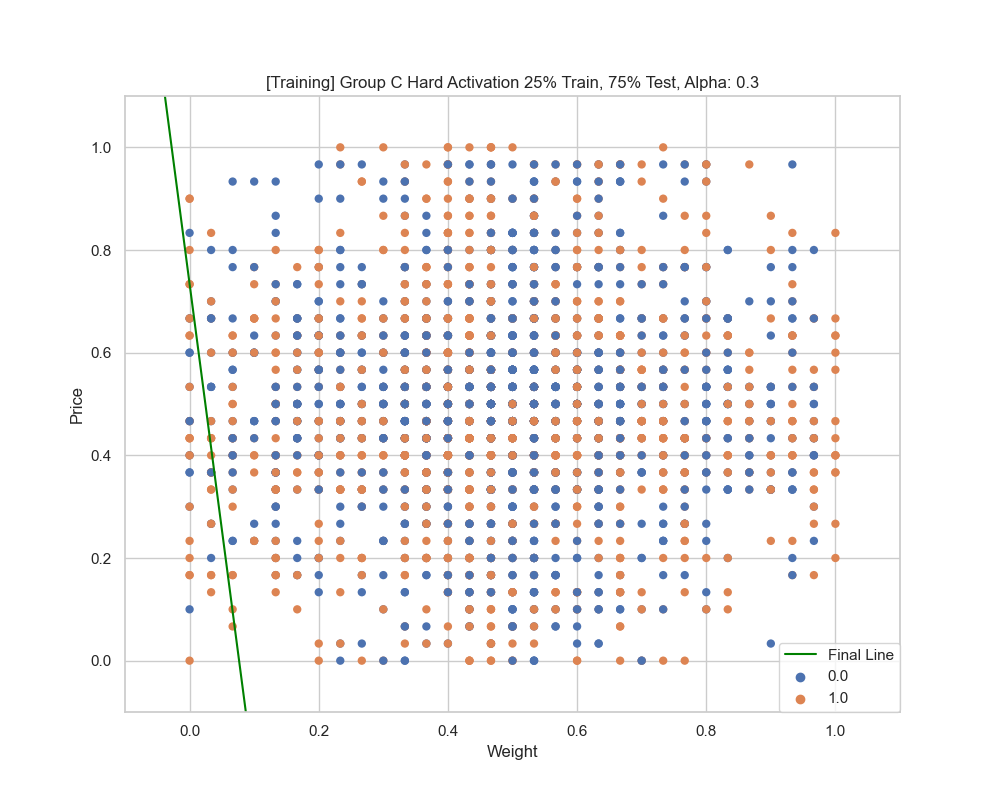
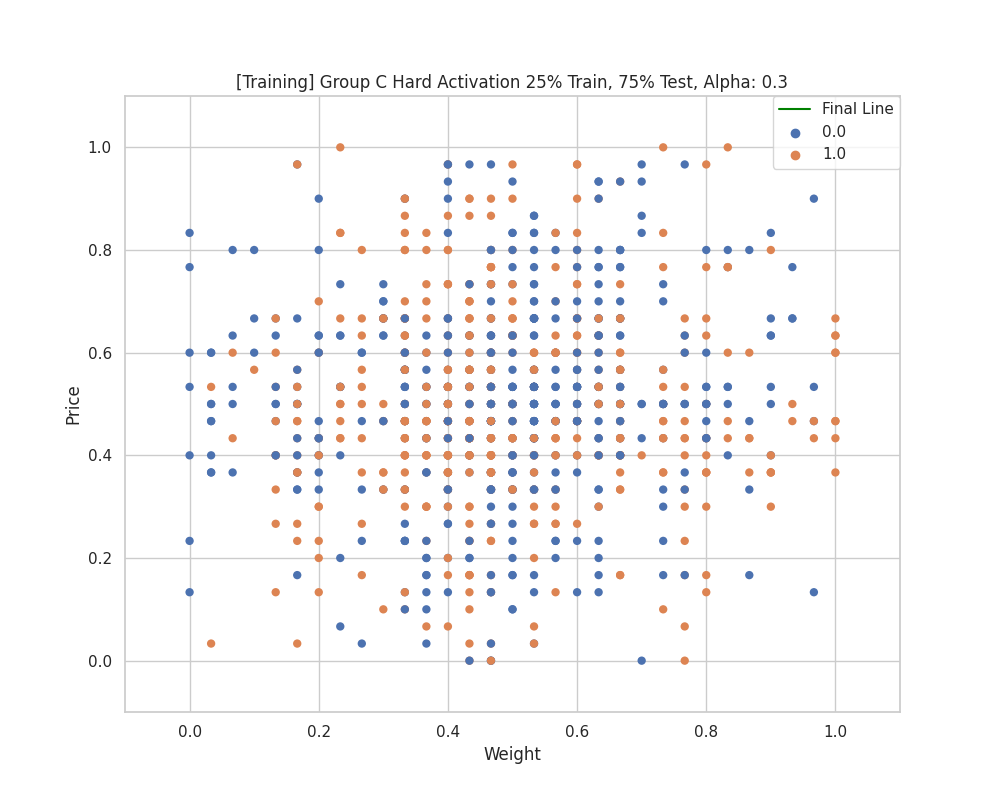
add group c hard 25

diff --git a/assignment2.py b/assignment2.py
@@ -359,31 +359,31 @@ def confusion_matrix(title, predicted, actual):
 # confusion_matrix(
 #     "Group A Hard Activation 25% Train, 75% Test, Alpha: 0.3", pred, testOut)
 
-groupb_hard_75, groupb_hard_75_train, groupb_hard_75_test, groupb_hard_75_out, train, test = normalize_and_train_hard(
-    "Group B", b_25, b_75, 0.3, epsilon_b, max_iterations, .75)
-groupb_hard_25, groupb_hard_25_train, groupb_hard_25_test, groupb_hard_25_out, train, test = normalize_and_train_hard(
-    "Group B", b_75, b_25, 0.3, epsilon_b, max_iterations, .25)
-pred, testOut = test_hard(
-    groupb_hard_75, groupb_hard_75_test, groupb_hard_75_out)
-graph_results("[Training] Group B Hard Activation 75% Train, 25% Test, Alpha: 0.3",
-              train, groupb_hard_75)
-graph_results("[Testing] Group B Hard Activation 75% Train, 25% Test, Alpha: 0.3",
-              test, groupb_hard_75)
-confusion_matrix(
-    "Group B Hard Activation 75% Train, 25% Test, Alpha: 0.3", pred, testOut)
-pred, testOut = test_hard(
-    groupb_hard_25, groupb_hard_25_test, groupb_hard_25_out)
-graph_results("[Training] Group B Hard Activation 25% Train, 75% Test, Alpha: 0.3",
-              train, groupb_hard_25)
-graph_results("[Testing] Group B Hard Activation 25% Train, 75% Test, Alpha: 0.3",
-              test, groupb_hard_25)
-confusion_matrix(
-    "Group B Hard Activation 25% Train, 75% Test, Alpha: 0.3", pred, testOut)
+# groupb_hard_75, groupb_hard_75_train, groupb_hard_75_test, groupb_hard_75_out, train, test = normalize_and_train_hard(
+#     "Group B", b_25, b_75, 0.3, epsilon_b, max_iterations, .75)
+# groupb_hard_25, groupb_hard_25_train, groupb_hard_25_test, groupb_hard_25_out, train, test = normalize_and_train_hard(
+#     "Group B", b_75, b_25, 0.3, epsilon_b, max_iterations, .25)
+# pred, testOut = test_hard(
+#     groupb_hard_75, groupb_hard_75_test, groupb_hard_75_out)
+# graph_results("[Training] Group B Hard Activation 75% Train, 25% Test, Alpha: 0.3",
+#               train, groupb_hard_75)
+# graph_results("[Testing] Group B Hard Activation 75% Train, 25% Test, Alpha: 0.3",
+#               test, groupb_hard_75)
+# confusion_matrix(
+#     "Group B Hard Activation 75% Train, 25% Test, Alpha: 0.3", pred, testOut)
+# pred, testOut = test_hard(
+#     groupb_hard_25, groupb_hard_25_test, groupb_hard_25_out)
+# graph_results("[Training] Group B Hard Activation 25% Train, 75% Test, Alpha: 0.3",
+#               train, groupb_hard_25)
+# graph_results("[Testing] Group B Hard Activation 25% Train, 75% Test, Alpha: 0.3",
+#               test, groupb_hard_25)
+# confusion_matrix(
+#     "Group B Hard Activation 25% Train, 75% Test, Alpha: 0.3", pred, testOut)
 
 # groupc_hard_75, groupc_hard_75_train, groupc_hard_75_test, groupc_hard_75_out, train, test = normalize_and_train_hard(
 #     "GroupC", c_25, c_75, 0.3, epsilon_c, max_iterations, .25)
-# groupc_hard_25, groupc_hard_25_train, groupc_hard_25_test, groupc_hard_25_out, train, test = normalize_and_train_hard(
-#     "GroupC", c_25, c_75, 0.3, epsilon_c, max_iterations, .75)
+groupc_hard_25, groupc_hard_25_train, groupc_hard_25_test, groupc_hard_25_out, train, test = normalize_and_train_hard(
+    "GroupC", c_75, c_25, 0.3, epsilon_c, max_iterations, .75)
 # pred, testOut = test_hard(
 #     groupc_hard_75, groupc_hard_75_test, groupc_hard_75_out)
 # graph_results("[Training] Group C Hard Activation 75% Train, 25% Test, Alpha: 0.3",
@@ -392,14 +392,14 @@ confusion_matrix(
 #               test, groupc_hard_75)
 # confusion_matrix(
 #     "Group C Hard Activation 75% Train, 25% Test, Alpha: 0.3", pred, testOut)
-# pred, testOut = test_hard(
-#     groupc_hard_25, groupc_hard_25_test, groupc_hard_25_out)
-# graph_results("[Training] Group C Hard Activation 25% Train, 75% Test, Alpha: 0.3",
-#               train, groupc_hard_25)
-# graph_results("[Testing] Group C Hard Activation 25% Train, 75% Test, Alpha: 0.3",
-#               test, groupc_hard_25)
-# confusion_matrix(
-#     "Group C Hard Activation 25% Train, 75% Test, Alpha: 0.3", pred, testOut)
+pred, testOut = test_hard(
+    groupc_hard_25, groupc_hard_25_test, groupc_hard_25_out)
+graph_results("[Training] Group C Hard Activation 25% Train, 75% Test, Alpha: 0.3",
+              train, groupc_hard_25)
+graph_results("[Testing] Group C Hard Activation 25% Train, 75% Test, Alpha: 0.3",
+              test, groupc_hard_25)
+confusion_matrix(
+    "Group C Hard Activation 25% Train, 75% Test, Alpha: 0.3", pred, testOut)
 
 # groupa_soft_75, groupa_soft_75_train, groupa_soft_75_test, groupa_soft_75_out, gainA_75, train, test = normalize_and_train_soft(
 #     "GroupA", df_a, 0.3, epsilon_a, max_iterations, .2, .25)
@@ -443,26 +443,26 @@ confusion_matrix(
 # confusion_matrix(
 #     "Group A Soft Activation 25% Train, 75% Test, Alpha: 0.3, Gain: 0.2", pred, testOut)
 
-groupb_soft_75, groupb_soft_75_train, groupb_soft_75_test, groupb_soft_75_out, gainB_75, train, test = normalize_and_train_soft(
-    "GroupB", b_25, b_75, 0.3, epsilon_b, max_iterations, .2, .25)
-groupb_soft_25, groupb_soft_25_train, groupb_soft_25_test, groupb_soft_25_out, gainB_25, train, test = normalize_and_train_soft(
-    "GroupB", b_75, b_25, 0.3, epsilon_b, max_iterations, .2, .75)
-pred, testOut = test_soft(
-    groupb_soft_75, groupb_soft_75_test, groupb_soft_75_out, gainB_75)
-graph_results("[Training] Group B Soft Activation 75% Train, 25% Test, Alpha: 0.3, Gain: 0.2",
-              train, groupb_soft_75)
-graph_results("[Testing] Group B Soft Activation 75% Train, 25% Test, Alpha: 0.3, Gain: 0.2",
-              test, groupb_soft_75)
-confusion_matrix(
-    "Group B Soft Activation 75% Train, 25% Test, Alpha: 0.3, Gain: 0.2", pred, testOut)
-pred, testOut = test_soft(
-    groupb_soft_25, groupb_soft_25_test, groupb_soft_25_out, gainB_25)
-graph_results("[Training] Group B Soft Activation 25% Train, 75% Test, Alpha: 0.3, Gain: 0.2",
-              train, groupb_soft_25)
-graph_results("[Testing] Group B Soft Activation 25% Train, 75% Test, Alpha: 0.3, Gain: 0.2",
-              test, groupb_soft_25)
-confusion_matrix(
-    "Group B Soft Activation 25% Train, 75% Test, Alpha: 0.3, Gain: 0.2", pred, testOut)
+# groupb_soft_75, groupb_soft_75_train, groupb_soft_75_test, groupb_soft_75_out, gainB_75, train, test = normalize_and_train_soft(
+#     "GroupB", b_25, b_75, 0.3, epsilon_b, max_iterations, .2, .25)
+# groupb_soft_25, groupb_soft_25_train, groupb_soft_25_test, groupb_soft_25_out, gainB_25, train, test = normalize_and_train_soft(
+#     "GroupB", b_75, b_25, 0.3, epsilon_b, max_iterations, .2, .75)
+# pred, testOut = test_soft(
+#     groupb_soft_75, groupb_soft_75_test, groupb_soft_75_out, gainB_75)
+# graph_results("[Training] Group B Soft Activation 75% Train, 25% Test, Alpha: 0.3, Gain: 0.2",
+#               train, groupb_soft_75)
+# graph_results("[Testing] Group B Soft Activation 75% Train, 25% Test, Alpha: 0.3, Gain: 0.2",
+#               test, groupb_soft_75)
+# confusion_matrix(
+#     "Group B Soft Activation 75% Train, 25% Test, Alpha: 0.3, Gain: 0.2", pred, testOut)
+# pred, testOut = test_soft(
+#     groupb_soft_25, groupb_soft_25_test, groupb_soft_25_out, gainB_25)
+# graph_results("[Training] Group B Soft Activation 25% Train, 75% Test, Alpha: 0.3, Gain: 0.2",
+#               train, groupb_soft_25)
+# graph_results("[Testing] Group B Soft Activation 25% Train, 75% Test, Alpha: 0.3, Gain: 0.2",
+#               test, groupb_soft_25)
+# confusion_matrix(
+#     "Group B Soft Activation 25% Train, 75% Test, Alpha: 0.3, Gain: 0.2", pred, testOut)
 
 # groupc_soft_75, groupc_soft_75_train, groupc_soft_75_test, groupc_soft_75_out, gainC_75, train, test = normalize_and_train_soft(
 #     "GroupC", c_25, c_75, 0.1, epsilon_c, max_iterations, .1, .25)
@@ -590,26 +590,26 @@ confusion_matrix(
 # confusion_matrix(
 #     "Alt Data A Soft Activation 25% Train, 75% Test, Alpha: 0.3, Gain: 0.2", pred, testOut)
 
-altb_soft_75, altb_soft_75_train, altb_soft_75_test, altb_soft_75_out, gainB_75, train, test = normalize_and_train_soft(
-    "AltB", b_alt_25, b_alt_75, 0.3, epsilon_b, max_iterations, .2, .25)
-altb_soft_25, altb_soft_25_train, altb_soft_25_test, altb_soft_25_out, gainB_25, train, test = normalize_and_train_soft(
-    "AltB", b_alt_75, b_alt_25, 0.3, epsilon_b, max_iterations, .2, .75)
-pred, testOut = test_soft(
-    altb_soft_75, altb_soft_75_test, altb_soft_75_out, gainB_75)
-graph_results("[Training] Alt Data B Soft Activation 75% Train, 25% Test, Alpha: 0.3, Gain: 0.2",
-              train, altb_soft_75)
-graph_results("[Testing] Alt Data B Soft Activation 75% Train, 25% Test, Alpha: 0.3, Gain: 0.2",
-              test, altb_soft_75)
-confusion_matrix(
-    "Alt Data B Soft Activation 75% Train, 25% Test, Alpha: 0.3, Gain: 0.2", pred, testOut)
-pred, testOut = test_soft(
-    altb_soft_25, altb_soft_25_test, altb_soft_25_out, gainB_25)
-graph_results("[Training] Alt Data B Soft Activation 25% Train, 75% Test, Alpha: 0.3, Gain: 0.2",
-              train, altb_soft_25)
-graph_results("[Testing] Alt Data B Soft Activation 25% Train, 75% Test, Alpha: 0.3, Gain: 0.2",
-              test, altb_soft_25)
-confusion_matrix(
-    "Alt Data B Soft Activation 25% Train, 75% Test, Alpha: 0.3, Gain: 0.2", pred, testOut)
+# altb_soft_75, altb_soft_75_train, altb_soft_75_test, altb_soft_75_out, gainB_75, train, test = normalize_and_train_soft(
+#     "AltB", b_alt_25, b_alt_75, 0.3, epsilon_b, max_iterations, .2, .25)
+# altb_soft_25, altb_soft_25_train, altb_soft_25_test, altb_soft_25_out, gainB_25, train, test = normalize_and_train_soft(
+#     "AltB", b_alt_75, b_alt_25, 0.3, epsilon_b, max_iterations, .2, .75)
+# pred, testOut = test_soft(
+#     altb_soft_75, altb_soft_75_test, altb_soft_75_out, gainB_75)
+# graph_results("[Training] Alt Data B Soft Activation 75% Train, 25% Test, Alpha: 0.3, Gain: 0.2",
+#               train, altb_soft_75)
+# graph_results("[Testing] Alt Data B Soft Activation 75% Train, 25% Test, Alpha: 0.3, Gain: 0.2",
+#               test, altb_soft_75)
+# confusion_matrix(
+#     "Alt Data B Soft Activation 75% Train, 25% Test, Alpha: 0.3, Gain: 0.2", pred, testOut)
+# pred, testOut = test_soft(
+#     altb_soft_25, altb_soft_25_test, altb_soft_25_out, gainB_25)
+# graph_results("[Training] Alt Data B Soft Activation 25% Train, 75% Test, Alpha: 0.3, Gain: 0.2",
+#               train, altb_soft_25)
+# graph_results("[Testing] Alt Data B Soft Activation 25% Train, 75% Test, Alpha: 0.3, Gain: 0.2",
+#               test, altb_soft_25)
+# confusion_matrix(
+#     "Alt Data B Soft Activation 25% Train, 75% Test, Alpha: 0.3, Gain: 0.2", pred, testOut)
 
 # altc_soft_75, altc_soft_75_train, altc_soft_75_test, altc_soft_75_out, gainC_75, train, test = normalize_and_train_soft(
 #     "AltC", alt_c_25, alt_c_75, 0.3, epsilon_c, max_iterations, .2, .25)
